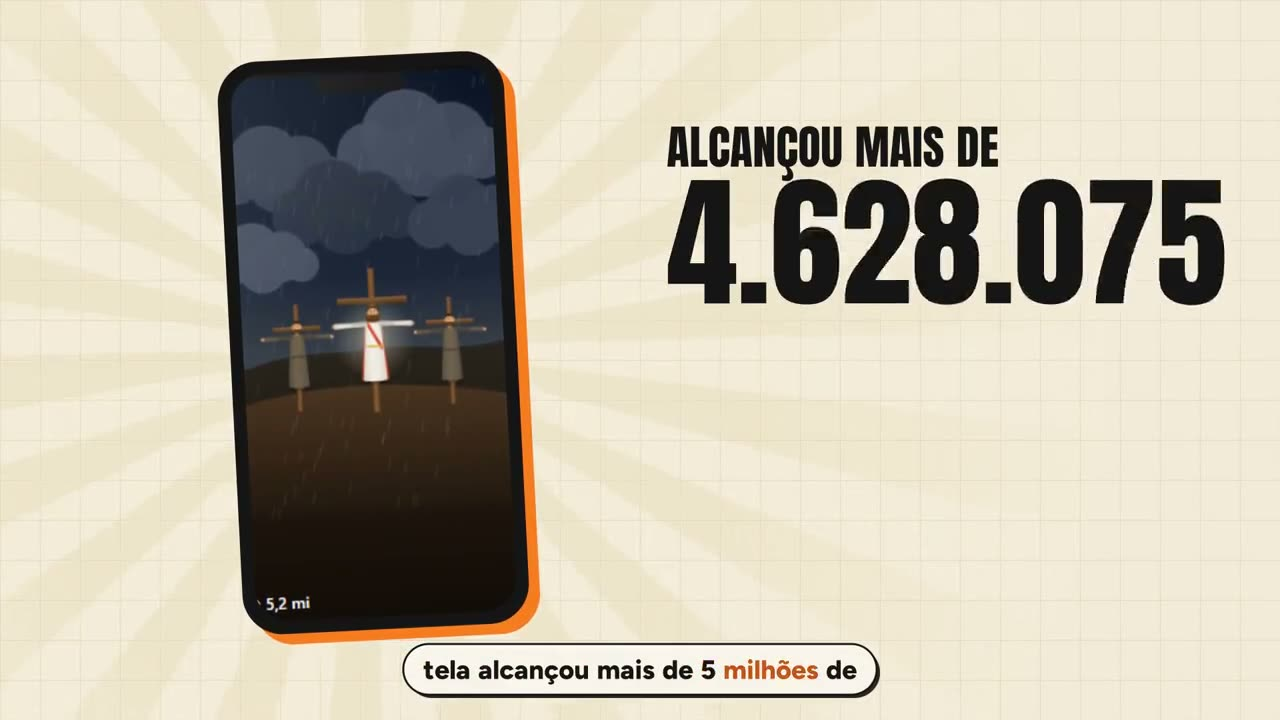
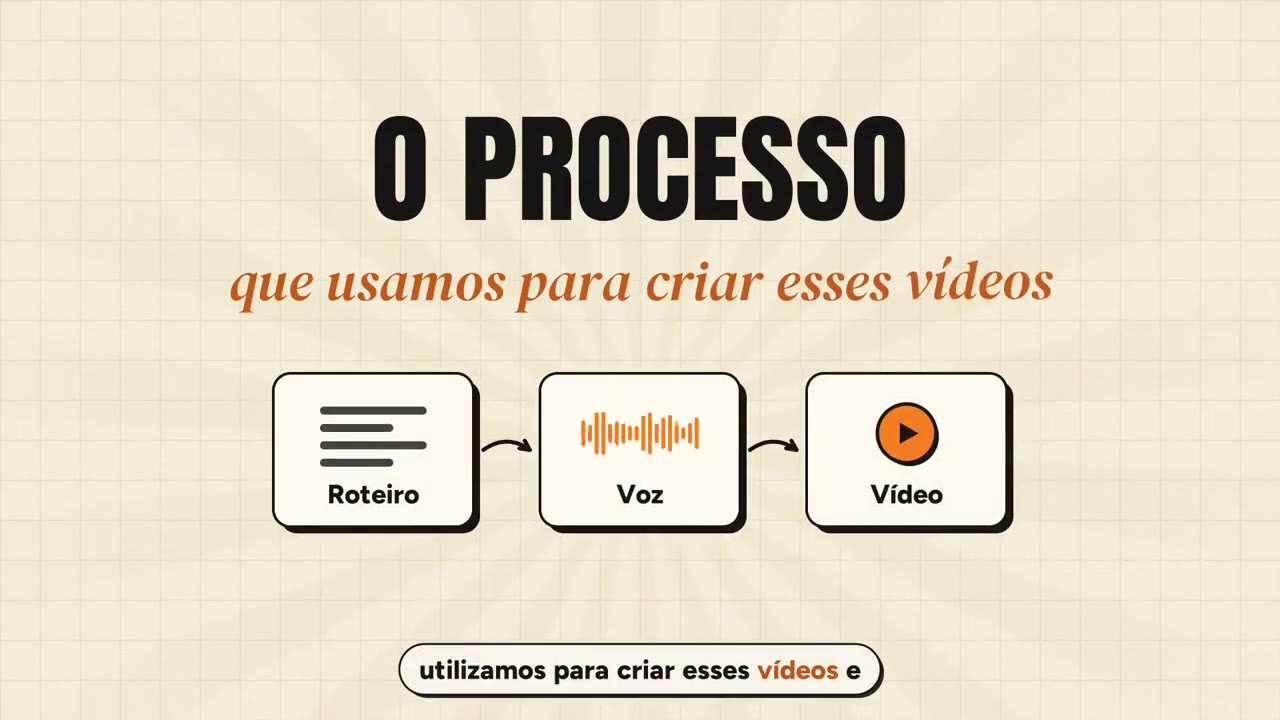
feat: Black Friday até 25/11 com contagem regressiva e 7,3 mi de views
Selos, contagem e preço riscado somem sozinhos após 25/11 23:59. Capa do vídeo sem números.

diff --git a/index.html b/index.html
@@ -53,7 +53,8 @@
         </div>
 
         <div class="hero__cta">
-          <p class="flag">Oferta de Black Friday</p>
+          <p class="flag js-bf">Black Friday até 25/11</p>
+          <p class="countdown js-countdown js-bf" aria-live="off"><span class="countdown__label">Termina em</span> <span class="js-cd-time">—</span></p>
           <p class="hero__price"><span class="hero__from">a partir de</span> R$ 47</p>
           <a class="btn btn--big" href="#comece-agora">QUERO APRENDER POR R$ 47</a>
           <p class="hero__note">Projeto prático completo liberado imediatamente após a compra.</p>
@@ -80,7 +81,7 @@
 
         <ul class="stats">
           <li class="stat card reveal"><strong>+20 mil</strong><span>seguidores no Instagram em 2 dias</span></li>
-          <li class="stat card reveal"><strong>5,1 mi</strong><span>de visualizações no primeiro vídeo</span></li>
+          <li class="stat card reveal"><strong>7,3 mi</strong><span>de visualizações no primeiro vídeo</span></li>
           <li class="stat card reveal"><strong>+700 mil</strong><span>curtidas em 2 dias</span></li>
         </ul>
 
@@ -176,7 +177,8 @@
     <section class="section" id="comece-agora" aria-labelledby="oferta-title">
       <div class="wrap">
         <div class="plans__head">
-          <p class="flag">Oferta de Black Friday</p>
+          <p class="flag js-bf">Black Friday até 25/11</p>
+          <p class="countdown js-countdown js-bf" aria-live="off"><span class="countdown__label">Termina em</span> <span class="js-cd-time">—</span></p>
           <h2 id="oferta-title">Escolha seu <span class="ac">plano</span></h2>
           <p class="section__lead">Comece pelo manual ou leve as aulas em vídeo com o passo a passo completo.</p>
         </div>
@@ -201,9 +203,9 @@
             <span class="plan__badge">⭐ Mais recomendado</span>
             <h3 class="plan__name" id="plano-completo">Curso completo</h3>
             <p class="plan__desc">Você assiste e faz junto: do roteiro ao vídeo final.</p>
-            <p class="plan__from">de <s>R$ 197</s> por</p>
+            <p class="plan__from js-bf">de <s>R$ 197</s> por</p>
             <p class="plan__price"><span class="plan__cur">R$</span>97</p>
-            <p class="plan__pay">pagamento único · você economiza R$ 100</p>
+            <p class="plan__pay">pagamento único<span class="js-bf"> · você economiza R$ 100 até 25/11</span></p>
             <ul class="plan__list">
               <li><strong>Tudo do Manual</strong></li>
               <li>6 aulas em vídeo, na prática</li>
@@ -266,7 +268,7 @@
       <div class="rays" aria-hidden="true"></div>
       <div class="wrap final__in">
         <h2 id="final-title">Seu primeiro vídeo com IA <span class="ac">pode sair hoje</span></h2>
-        <p>Planos a partir de <strong>R$ 47</strong>. Na Black Friday, o curso completo sai de <s>R$ 197</s> por <strong>R$ 97</strong>.</p>
+        <p>Planos a partir de <strong>R$ 47</strong>.<span class="js-bf"> Na Black Friday, até 25/11, o curso completo sai de <s>R$ 197</s> por <strong>R$ 97</strong>.</span></p>
         <a class="btn btn--tinta btn--big" href="#comece-agora">VER OS PLANOS</a>
       </div>
     </section>

diff --git a/script.js b/script.js
@@ -7,6 +7,9 @@ const VIDEO_URL = "assets/apresentacao.mp4";
 // Capa do vídeo antes de dar play (opcional). Ex.: "assets/capa-apresentacao.jpg"
 const VIDEO_POSTER = "assets/apresentacao.jpg";
 
+// Fim da Black Friday (horário de Brasília). Depois dessa hora, selos, contagem e "de R$ 197" somem sozinhos.
+const BLACK_FRIDAY_FIM = "2026-11-25T23:59:59-03:00";
+
 // Links de checkout da Cakto de cada plano.
 const PLANOS = {
   manual: "https://pay.cakto.com.br/qzj3yyy_1301898",
@@ -16,7 +19,7 @@ const PLANOS = {
 
 // Carrossel de resultados: vídeos verticais (9:16) na pasta assets.
 const VIDEOS = [
-  { views: "5,1 mi", label: "o mistério do número 3", src: "assets/v-numero3.mp4", poster: "assets/v-numero3.jpg" },
+  { views: "7,3 mi", label: "o mistério do número 3", src: "assets/v-numero3.mp4", poster: "assets/v-numero3.jpg" },
   { views: "534 mil", label: "o homem que viveu 969 anos", src: "assets/v-matusalem.mp4", poster: "assets/v-matusalem.jpg" },
   { views: "490 mil", label: "os dois Judas", src: "assets/v-judas.mp4", poster: "assets/v-judas.jpg" },
 ];
@@ -34,6 +37,22 @@ function setupCheckout() {
     a.target = "_blank";
     a.rel = "noopener";
   });
+}
+
+// Contagem regressiva da Black Friday; nos últimos 3 dias ganha destaque.
+function setupCountdown() {
+  const fim = new Date(BLACK_FRIDAY_FIM).getTime();
+  const els = [...document.querySelectorAll(".js-countdown")];
+  const pad = (n) => String(n).padStart(2, "0");
+  const tick = () => {
+    const ms = fim - Date.now();
+    if (!(ms > 0)) { document.querySelectorAll(".js-bf").forEach((el) => (el.hidden = true)); return clearInterval(timer); }
+    const s = Math.floor(ms / 1000), d = Math.floor(s / 86400), h = Math.floor((s % 86400) / 3600), m = Math.floor((s % 3600) / 60);
+    const txt = `${d > 0 ? `${d}d ` : ""}${pad(h)}h ${pad(m)}m ${pad(s % 60)}s`;
+    els.forEach((el) => { el.querySelector(".js-cd-time").textContent = txt; el.classList.toggle("is-urgent", d < 3); });
+  };
+  const timer = setInterval(tick, 1000);
+  tick();
 }
 
 function setupPlayer() {
@@ -170,6 +189,7 @@ function setupStickyCta() {
 document.querySelector(".js-year").textContent = new Date().getFullYear();
 setupPhones();
 setupCheckout();
+setupCountdown();
 setupPlayer();
 setupReveal();
 setupStickyCta();

diff --git a/style.css b/style.css
@@ -237,6 +237,12 @@ img, svg, video { display: block; max-width: 100%; }
 .band--dark .fit__list--no li::before { border-color: rgba(243, 236, 217, .5); }
 
 /* Planos */
+.countdown { display: inline-flex; align-items: center; gap: .5rem; margin: 0; padding: .3rem .9rem; border: 2px solid var(--tinta); border-radius: 999px; background: var(--bege-2); font-weight: 700; font-variant-numeric: tabular-nums; box-shadow: 3px 3px 0 var(--tinta); }
+.countdown__label { font-family: var(--display); font-weight: 400; letter-spacing: .05em; text-transform: uppercase; color: var(--laranja-escuro); }
+.countdown.is-urgent { background: var(--sol); animation: pulso 1.6s ease-in-out infinite; }
+.countdown.is-urgent .countdown__label { color: var(--tinta); }
+.countdown.is-urgent .countdown__label::before { content: "Últimos dias · "; }
+@keyframes pulso { 50% { transform: scale(1.04); } }
 .plans__head { display: grid; justify-items: center; text-align: center; gap: .9rem; max-width: 640px; margin: 0 auto clamp(2rem, 4vw, 3rem); }
 .plans { display: grid; grid-template-columns: 1fr 1.12fr 1fr; gap: clamp(1rem, 2.4vw, 1.75rem); align-items: center; }
 .plan {
@@ -353,7 +359,7 @@ img, svg, video { display: block; max-width: 100%; }
 
 @media (prefers-reduced-motion: reduce) {
   html { scroll-behavior: auto; }
-  .tape__track { animation: none; }
+  .tape__track, .countdown.is-urgent { animation: none; }
   * { transition: none !important; }
   .js .reveal { opacity: 1; transform: none; }
 }
